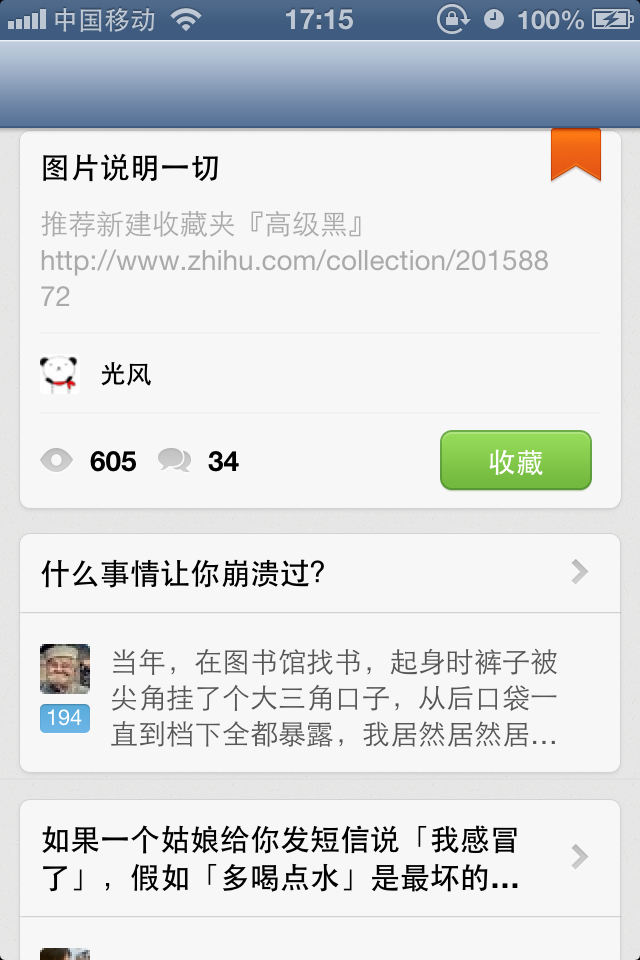
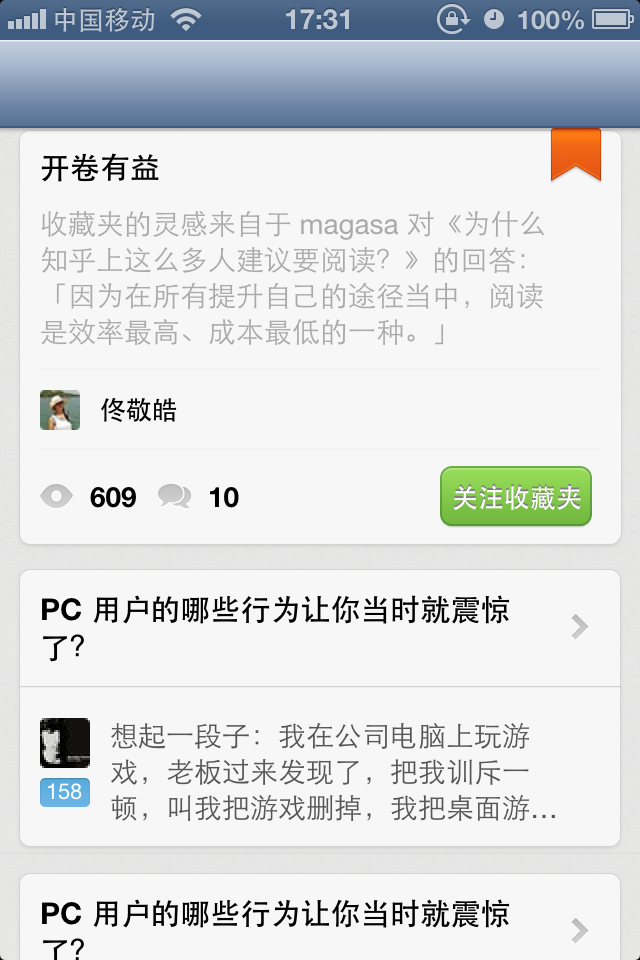
fixing bugs

diff --git a/ZHDemo/ZHAnswerCheckBox.m b/ZHDemo/ZHAnswerCheckBox.m
@@ -57,6 +57,7 @@
   self.checkBoxTitleLabel = [[UILabel alloc] init];
   [self.checkBoxTitleLabel setText:self.normalTitle];
   [self.checkBoxTitleLabel setBackgroundColor:[UIColor clearColor]];
+  [self.checkBoxTitleLabel setShadowColor:[UIColor grayColor]];
   [self.checkBoxTitleLabel setAdjustsFontSizeToFitWidth:YES];
   
 	self.unselectedNormalImage = [UIImage imageNamed:@"ZHFollowButtonNormal.png"];
@@ -67,7 +68,7 @@
   self.checkBoxImageView = [[UIImageView alloc] initWithImage:self.unselectedNormalImage];
   [self.checkBoxImageView setAutoresizingMask:UIViewAutoresizingFlexibleWidth | UIViewAutoresizingFlexibleHeight];
   [self.checkBoxTitleLabel setFrame:self.checkBoxImageView.bounds];
-  [self.checkBoxTitleLabel setFont:[UIFont boldSystemFontOfSize:14.0]];
+  [self.checkBoxTitleLabel setFont:[UIFont boldSystemFontOfSize:13.0]];
   [self.checkBoxTitleLabel setTextAlignment:NSTextAlignmentCenter];
   [self.checkBoxTitleLabel setTextColor:[UIColor whiteColor]];
   [self.checkBoxImageView addSubview:self.checkBoxTitleLabel];
@@ -105,10 +106,13 @@
 - (void)updateCheckbox:(BOOL)checked
 {
 	if (checked) {
+    [self.checkBoxTitleLabel setShadowOffset:CGSizeMake(0, 0)];
     [self.checkBoxTitleLabel setText:self.selectedTitle];
     [self.checkBoxTitleLabel setTextColor:[UIColor grayColor]];
     [self.checkBoxImageView setImage:self.selectedNormalImage];
   } else {
+    
+    [self.checkBoxTitleLabel setShadowOffset:CGSizeMake(0, -1)];
     [self.checkBoxTitleLabel setText:self.normalTitle];
     [self.checkBoxTitleLabel setTextColor:[UIColor whiteColor]];
   	[self.checkBoxImageView setImage:self.unselectedNormalImage];

diff --git a/ZHDemo/ZHAnswerHeaderView.m b/ZHDemo/ZHAnswerHeaderView.m
@@ -136,7 +136,7 @@
     }
     
     if (!checkbox_) {
-      self.checkbox = [ZHAnswerCheckBox checkBoxNormalTitle:@"收藏" SelectedTitle:@"取消收藏"];
+      self.checkbox = [ZHAnswerCheckBox checkBoxNormalTitle:@"关注收藏夹" SelectedTitle:@"取消关注"];
       [checkbox_ setDelegate:self];
       [self addSubview:checkbox_];
     }
@@ -149,9 +149,9 @@
 - (void)checkbox:(ZHAnswerCheckBox *)checkBox didChangeState:(BOOL)selected
 {
   if (selected) {
-    NSLog(@"收藏..");
+    NSLog(@"关注收藏夹..");
   } else {
-  	NSLog(@"取消收藏..");
+  	NSLog(@"取消关注..");
   }
 	
 }
